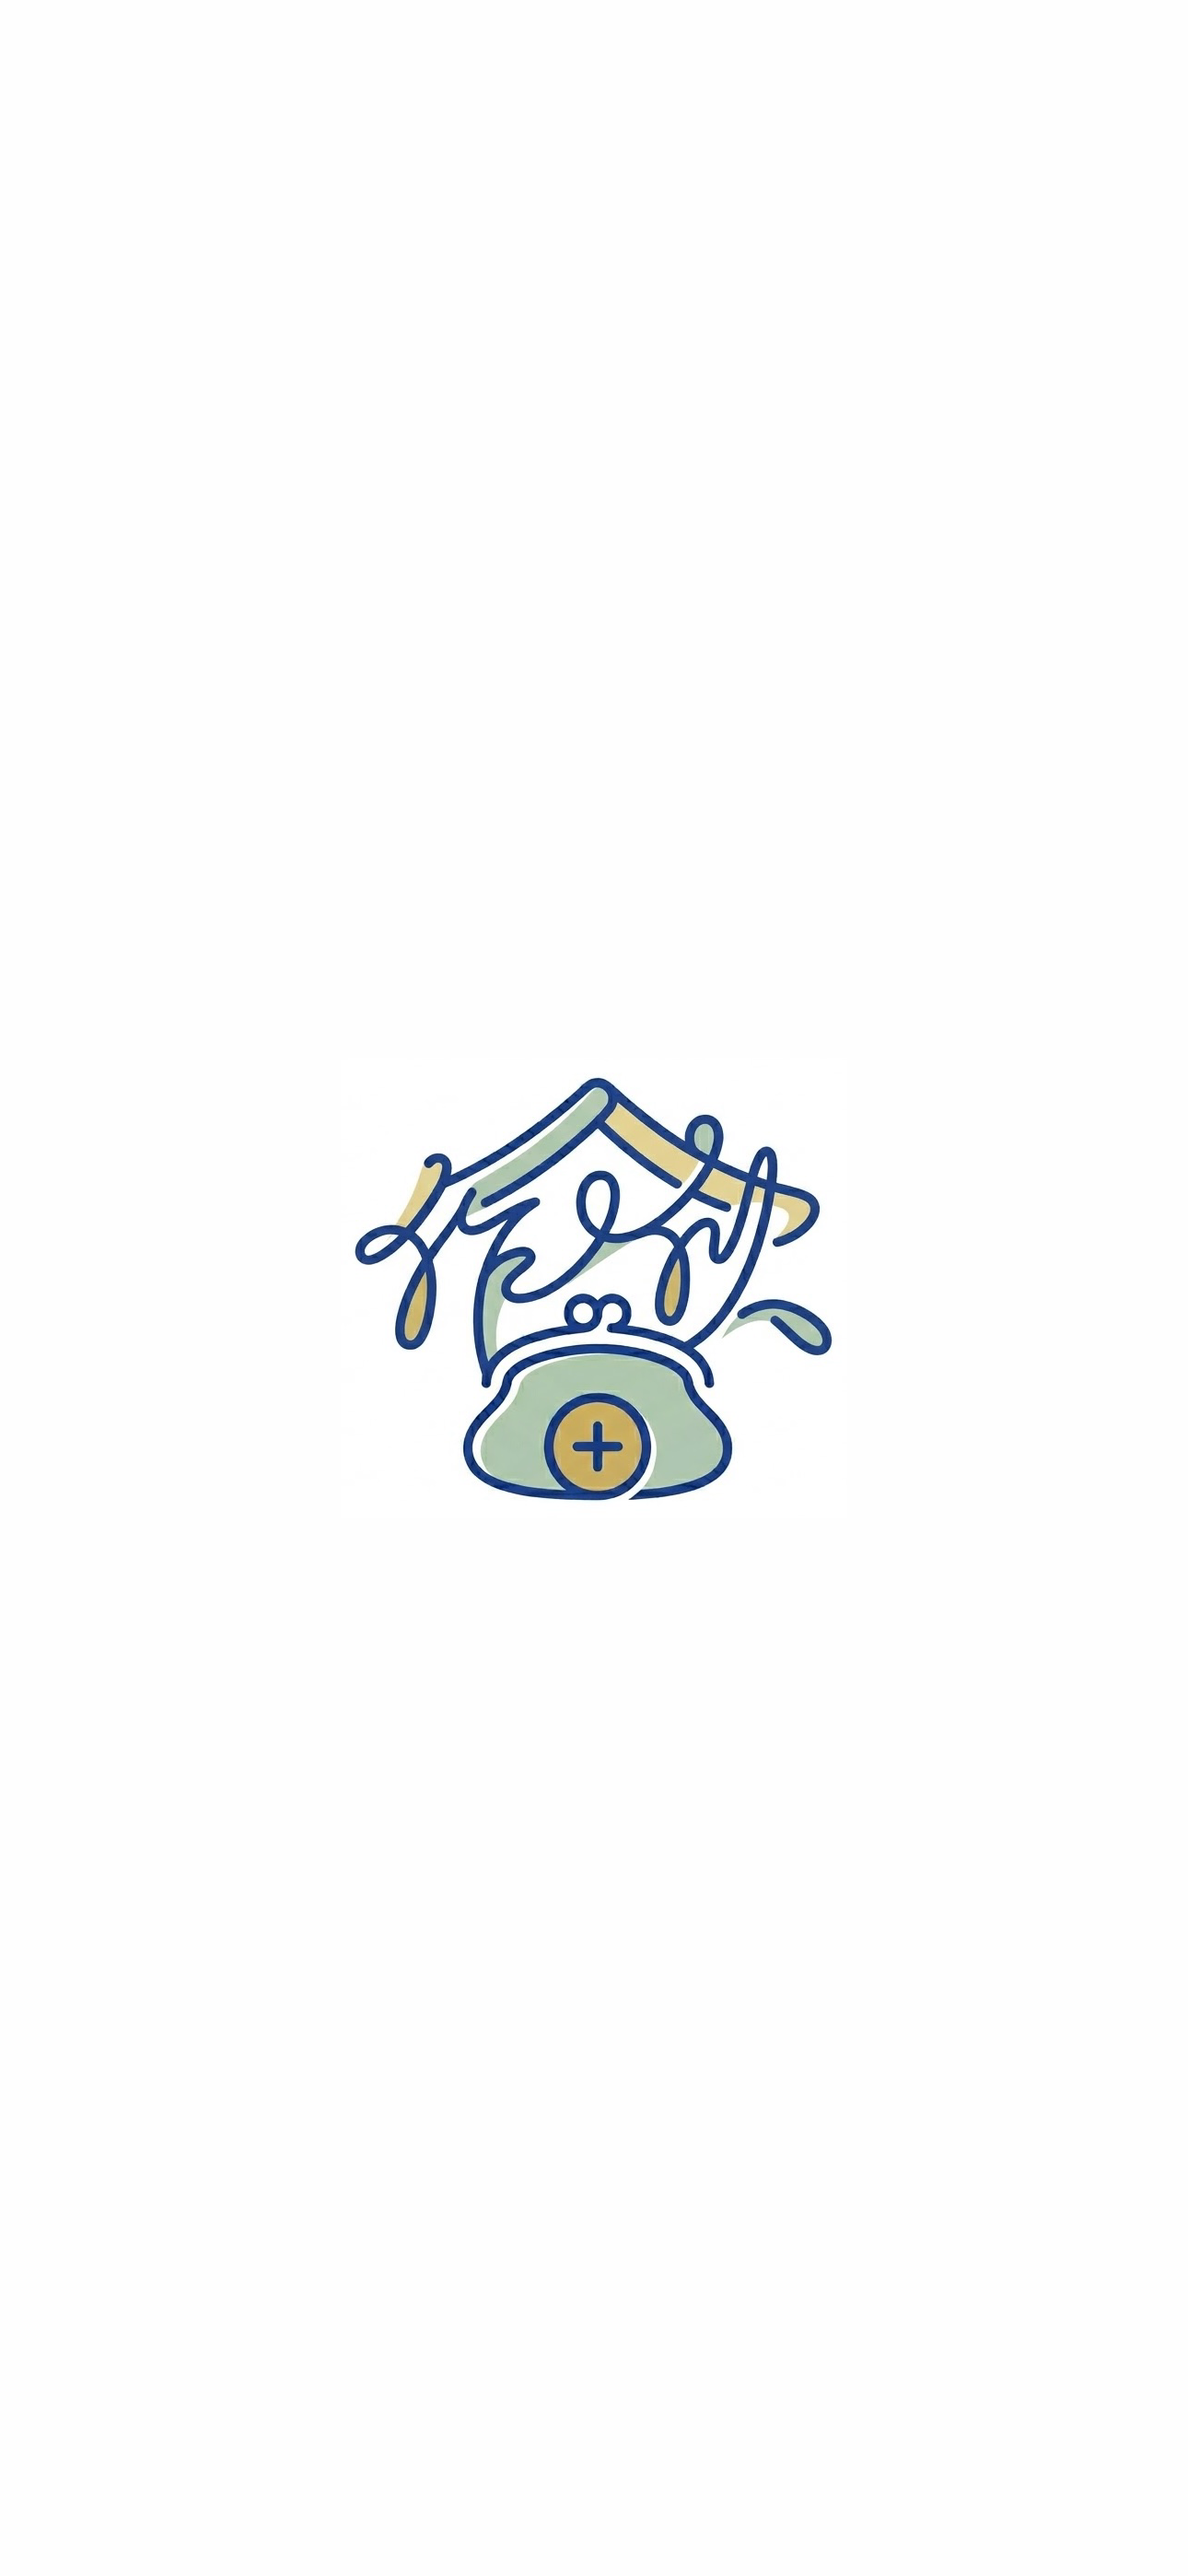
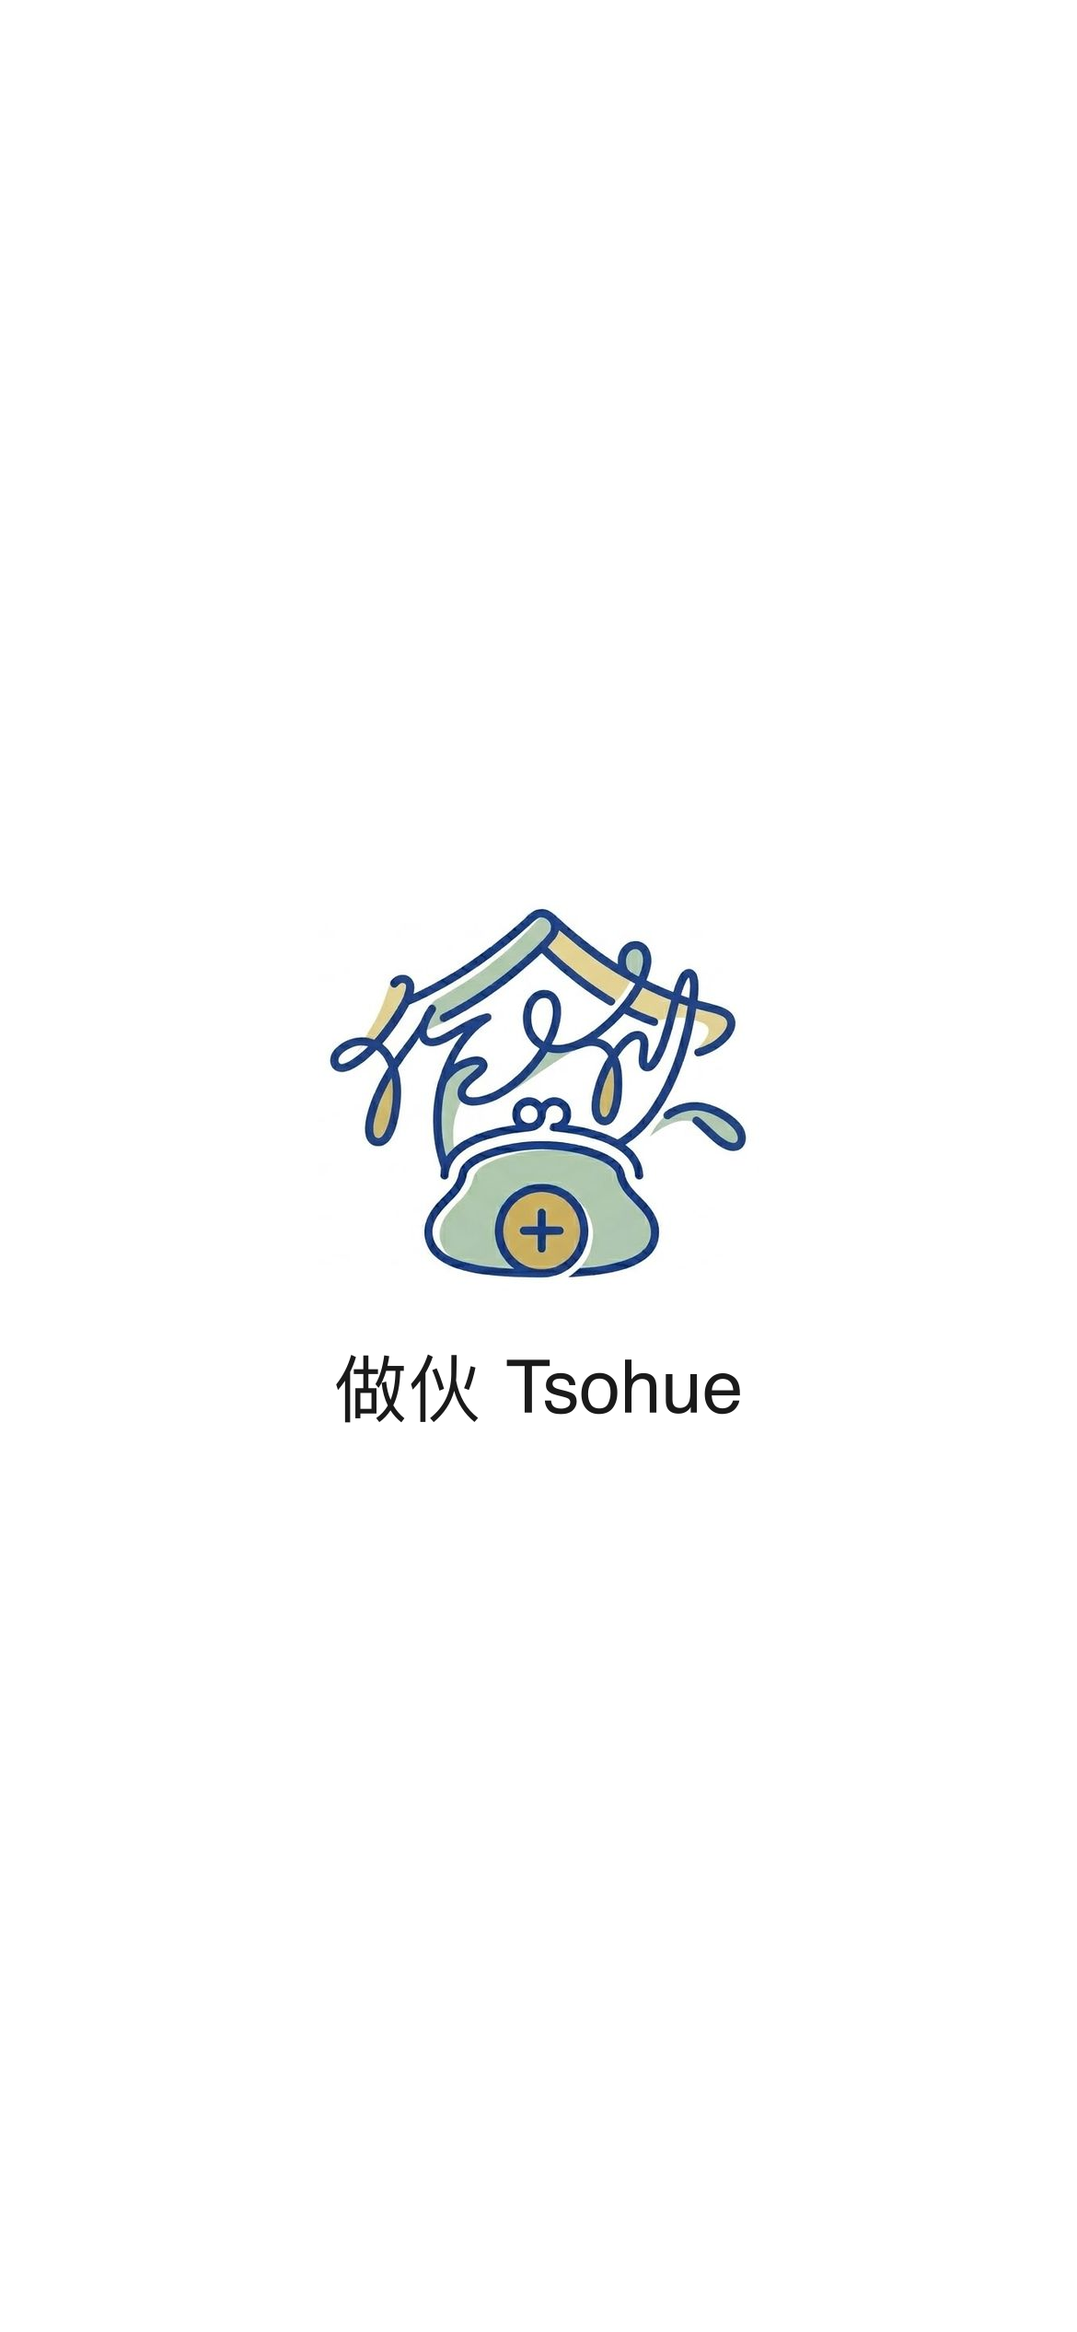
feat: add correct startup image for iPhone 13 Pro (1170×2532)
Generate proper 1170×2532px apple-touch-startup-image with centered
logo and title. Update media query to target iPhone 13 Pro:
device-width 390px, device-height 844px, @3x.

Changed region(s): [[0.3077, 0.3744, 0.7077, 0.624]]

diff --git a/app/layout.tsx b/app/layout.tsx
@@ -19,9 +19,8 @@ export const metadata: Metadata = {
     startupImage: [
       {
         url: '/apple-touch-startup-image.png',
-        media: '(device-width: 430px) and (device-height: 932px) and (-webkit-device-pixel-ratio: 3)',
+        media: '(device-width: 390px) and (device-height: 844px) and (-webkit-device-pixel-ratio: 3)',
       },
-      '/apple-touch-startup-image.png',
     ],
   },
 }
@@ -38,7 +37,7 @@ export default function RootLayout({
 }>) {
   return (
     <html lang="zh-TW" className={`${geistSans.variable} h-full antialiased`} style={{ backgroundColor: '#ffffff' }}>
-      <body className="min-h-full flex flex-col">
+      <body className="min-h-full flex flex-col" style={{ backgroundColor: '#ffffff' }}>
         <SplashProvider>
           {children}
         </SplashProvider>
